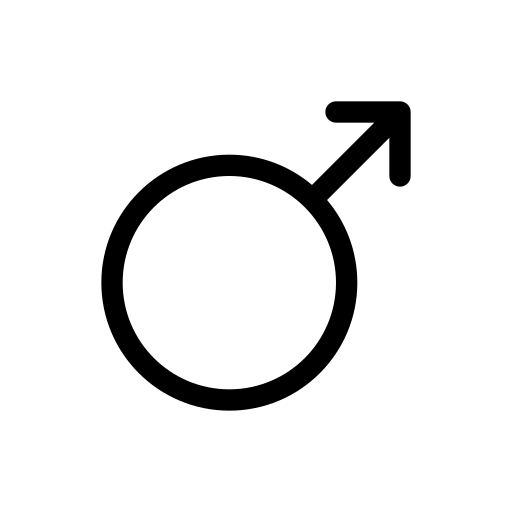
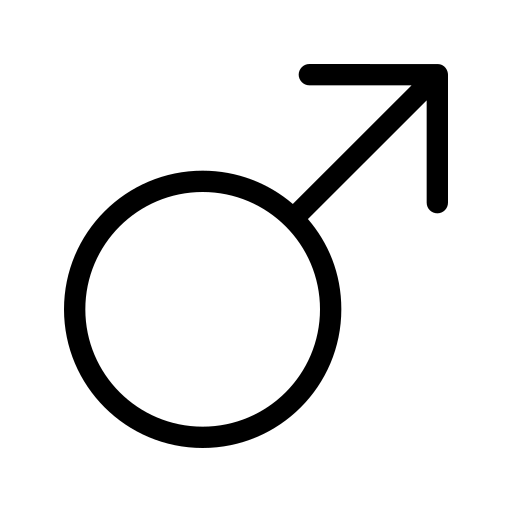
add styles detail page

Changed region(s): [[0.125, 0.2812, 0.7188, 0.875], [0.5625, 0.125, 0.875, 0.4375]]

diff --git a/public/stylesheets/styles.css b/public/stylesheets/styles.css
@@ -741,6 +741,10 @@ h1, h2, h3, h4, h5, h6 {
   grid-column-end: 7;
 }
 
+.col-end-2 {
+  grid-column-end: 2;
+}
+
 .row-span-full {
   grid-row: 1 / -1;
 }
@@ -779,6 +783,14 @@ h1, h2, h3, h4, h5, h6 {
 
 .m-8 {
   margin: 2rem;
+}
+
+.m-auto {
+  margin: auto;
+}
+
+.m-12 {
+  margin: 3rem;
 }
 
 .mx-1 {
@@ -916,6 +928,10 @@ h1, h2, h3, h4, h5, h6 {
   margin-right: 0.5rem;
 }
 
+.ml-1 {
+  margin-left: 0.25rem;
+}
+
 .block {
   display: block;
 }
@@ -946,6 +962,10 @@ h1, h2, h3, h4, h5, h6 {
 
 .aspect-square {
   aspect-ratio: 1 / 1;
+}
+
+.aspect-\[4\/3\] {
+  aspect-ratio: 4/3;
 }
 
 .size-1\/4 {
@@ -1050,6 +1070,10 @@ h1, h2, h3, h4, h5, h6 {
   height: 8%;
 }
 
+.h-\[800px\] {
+  height: 800px;
+}
+
 .max-h-80 {
   max-height: 20rem;
 }
@@ -1060,6 +1084,10 @@ h1, h2, h3, h4, h5, h6 {
 
 .max-h-\[600px\] {
   max-height: 600px;
+}
+
+.max-h-\[800px\] {
+  max-height: 800px;
 }
 
 .min-h-28 {
@@ -1458,12 +1486,28 @@ h1, h2, h3, h4, h5, h6 {
   place-items: center;
 }
 
+.place-items-baseline {
+  place-items: baseline;
+}
+
 .content-center {
   align-content: center;
 }
 
+.items-start {
+  align-items: flex-start;
+}
+
+.items-end {
+  align-items: flex-end;
+}
+
 .items-center {
   align-items: center;
+}
+
+.items-baseline {
+  align-items: baseline;
 }
 
 .justify-end {
@@ -1550,6 +1594,10 @@ h1, h2, h3, h4, h5, h6 {
 
 .self-center {
   align-self: center;
+}
+
+.self-baseline {
+  align-self: baseline;
 }
 
 .justify-self-end {
@@ -1792,6 +1840,22 @@ h1, h2, h3, h4, h5, h6 {
   background-color: rgb(226 232 240 / var(--tw-bg-opacity, 1));
 }
 
+.bg-white\/30 {
+  background-color: rgb(255 255 255 / 0.3);
+}
+
+.bg-white\/50 {
+  background-color: rgb(255 255 255 / 0.5);
+}
+
+.bg-white\/0 {
+  background-color: rgb(255 255 255 / 0);
+}
+
+.bg-white\/70 {
+  background-color: rgb(255 255 255 / 0.7);
+}
+
 .bg-bg-icons {
   background-image: url('../assets/bg-icons.png');
 }
@@ -1897,6 +1961,74 @@ h1, h2, h3, h4, h5, h6 {
 
 .p-1 {
   padding: 0.25rem;
+}
+
+.p-\[\] {
+  padding: ;
+}
+
+.p-\[min\] {
+  padding: min;
+}
+
+.p-\[min\(\)\] {
+  padding: min();
+}
+
+.p-\[min\(5em\)\] {
+  padding: min(5em);
+}
+
+.p-\[min\(5em-8\%\)\] {
+  padding: min(5em - 8%);
+}
+
+.p-\[min\(2em-8\%\)\] {
+  padding: min(2em - 8%);
+}
+
+.p-\[min\(1em-8\%\)\] {
+  padding: min(1em - 8%);
+}
+
+.p-\[min\(1em-4\%\)\] {
+  padding: min(1em - 4%);
+}
+
+.p-\[min\(2em-4\%\)\] {
+  padding: min(2em - 4%);
+}
+
+.p-\[min\(5em-4\%\)\] {
+  padding: min(5em - 4%);
+}
+
+.p-\[min\(4em-4\%\)\] {
+  padding: min(4em - 4%);
+}
+
+.p-\[min\(4em-6\%\)\] {
+  padding: min(4em - 6%);
+}
+
+.p-\[min\(4em-2\%\)\] {
+  padding: min(4em - 2%);
+}
+
+.p-\[min\(2em-2\%\)\] {
+  padding: min(2em - 2%);
+}
+
+.p-\[8-8-\] {
+  padding: 8-8-;
+}
+
+.p-\[8-8-16-\] {
+  padding: 8-8-16-;
+}
+
+.p-\[8-8-16-8\] {
+  padding: 8-8-16-8;
 }
 
 .px-1 {
@@ -2038,6 +2170,14 @@ h1, h2, h3, h4, h5, h6 {
   padding-top: 2rem;
 }
 
+.pb-16 {
+  padding-bottom: 4rem;
+}
+
+.pb-24 {
+  padding-bottom: 6rem;
+}
+
 .text-center {
   text-align: center;
 }
@@ -2050,8 +2190,16 @@ h1, h2, h3, h4, h5, h6 {
   text-align: end;
 }
 
+.align-baseline {
+  vertical-align: baseline;
+}
+
 .align-middle {
   vertical-align: middle;
+}
+
+.font-mono {
+  font-family: ui-monospace, SFMono-Regular, Menlo, Monaco, Consolas, "Liberation Mono", "Courier New", monospace;
 }
 
 .text-2xl {
@@ -2087,6 +2235,11 @@ h1, h2, h3, h4, h5, h6 {
 .text-xl {
   font-size: 1.25rem;
   line-height: 1.75rem;
+}
+
+.text-base {
+  font-size: 1rem;
+  line-height: 1.5rem;
 }
 
 .font-bold {
@@ -2158,6 +2311,11 @@ h1, h2, h3, h4, h5, h6 {
 .text-white {
   --tw-text-opacity: 1;
   color: rgb(255 255 255 / var(--tw-text-opacity, 1));
+}
+
+.text-red-400 {
+  --tw-text-opacity: 1;
+  color: rgb(248 113 113 / var(--tw-text-opacity, 1));
 }
 
 .underline {
@@ -2423,6 +2581,11 @@ h1, h2, h3, h4, h5, h6 {
   color: rgb(255 255 255 / var(--tw-text-opacity, 1));
 }
 
+.hover\:bg-linear:hover{
+  background: rgb(255,176,146);
+  background: linear-gradient(0deg, rgba(255,176,146,1) 0%, rgba(255,223,209,1) 100%);
+}
+
 .focus\:h-\[400px\]:focus {
   height: 400px;
 }
@@ -2548,6 +2711,10 @@ h1, h2, h3, h4, h5, h6 {
     inset: 0px;
   }
 
+  .md\:col-span-full {
+    grid-column: 1 / -1;
+  }
+
   .md\:col-start-1 {
     grid-column-start: 1;
   }
@@ -2600,6 +2767,10 @@ h1, h2, h3, h4, h5, h6 {
     margin: auto;
   }
 
+  .md\:m-0 {
+    margin: 0px;
+  }
+
   .md\:mx-auto {
     margin-left: auto;
     margin-right: auto;
@@ -2623,6 +2794,10 @@ h1, h2, h3, h4, h5, h6 {
 
   .md\:mt-8 {
     margin-top: 2rem;
+  }
+
+  .md\:mb-0 {
+    margin-bottom: 0px;
   }
 
   .md\:block {
@@ -2667,6 +2842,10 @@ h1, h2, h3, h4, h5, h6 {
 
   .md\:max-h-\[600px\] {
     max-height: 600px;
+  }
+
+  .md\:max-h-\[800px\] {
+    max-height: 800px;
   }
 
   .md\:w-14 {
